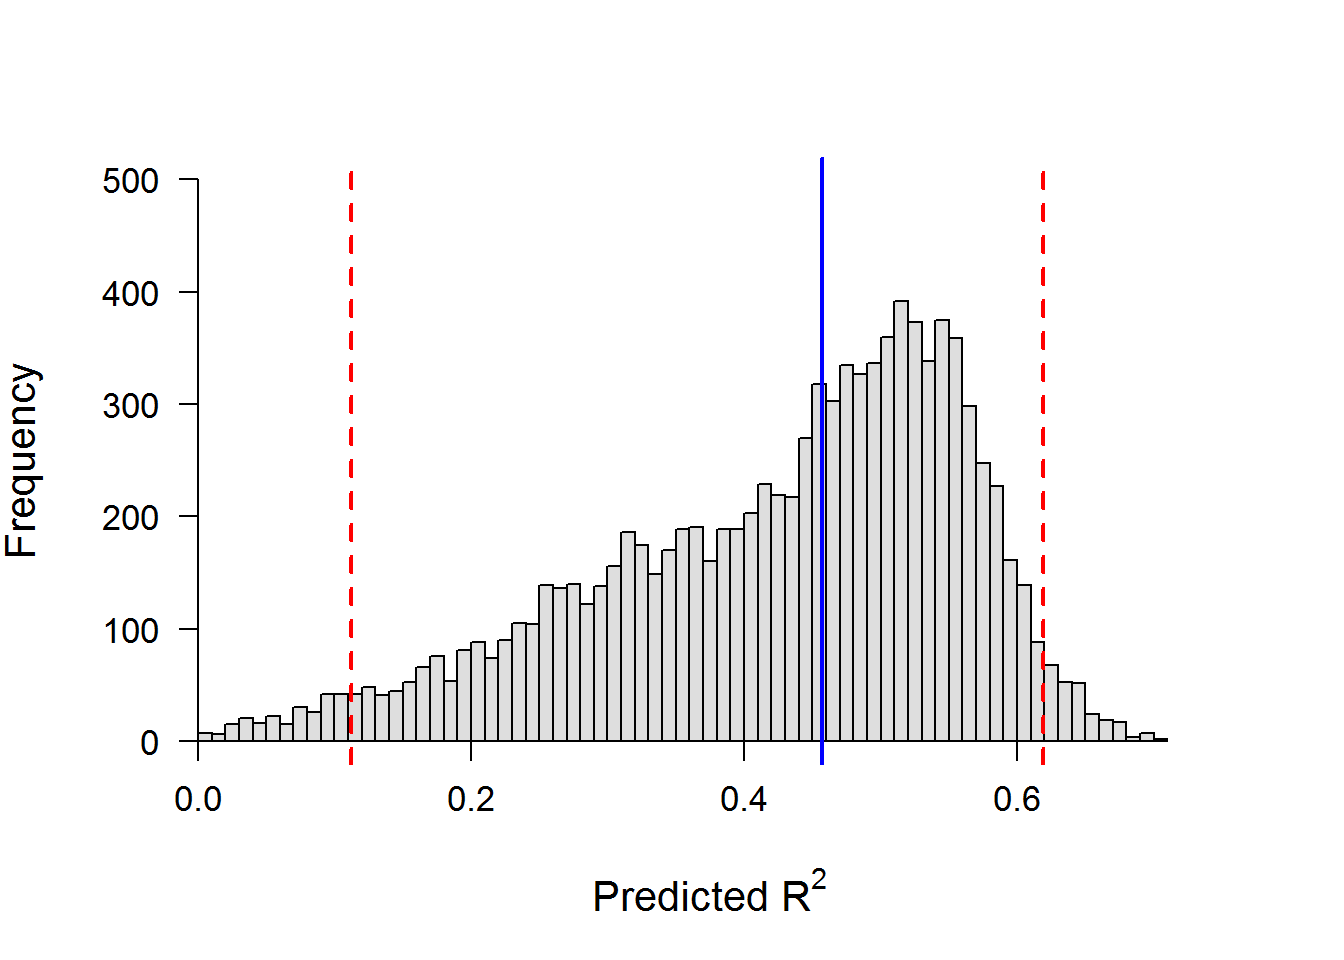
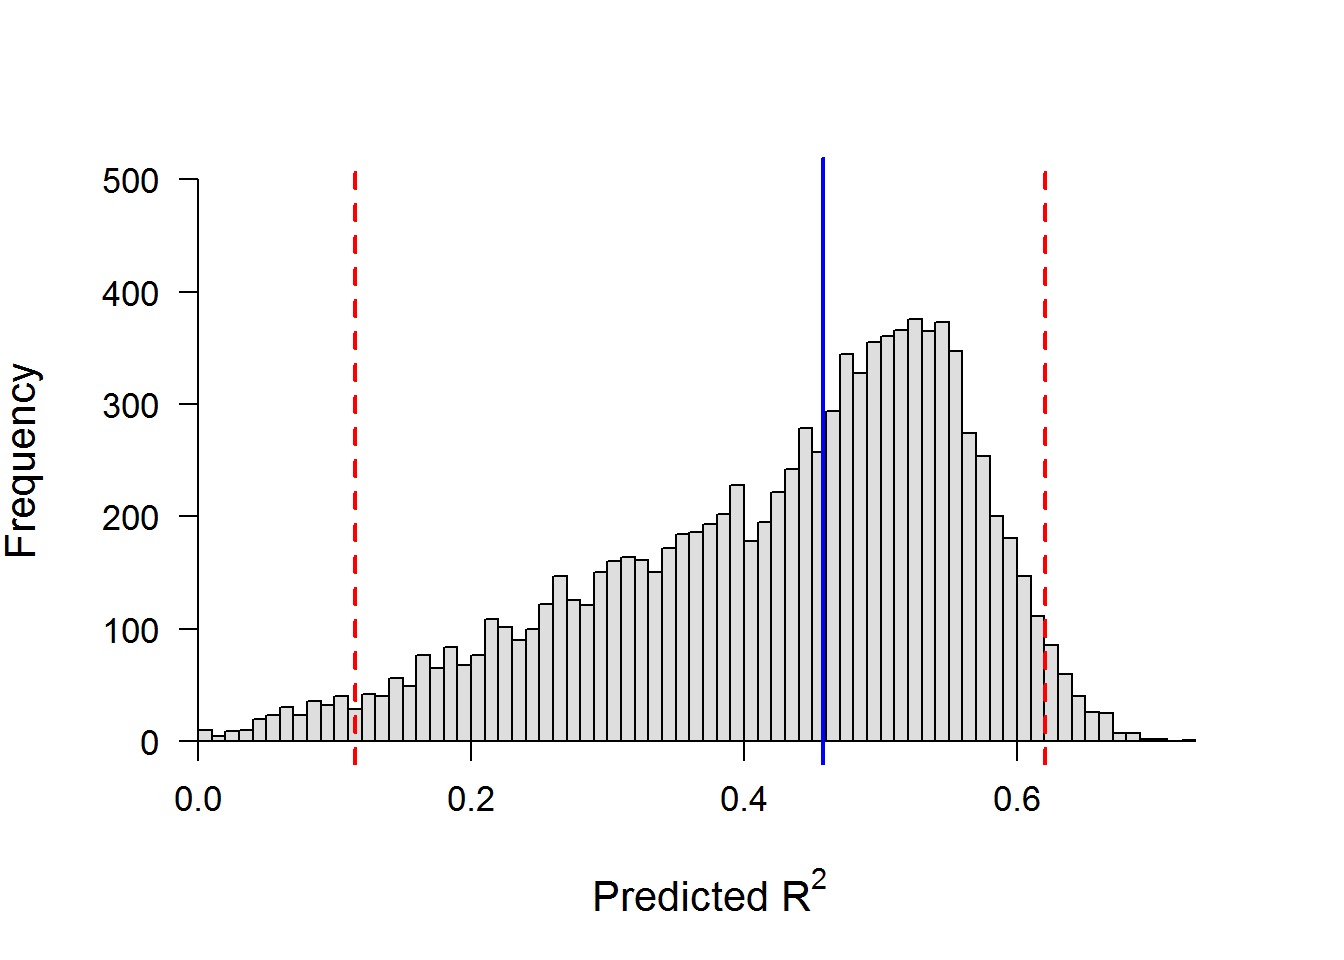
update course website home pages

diff --git a/stich/classes/BIOL678/index.html b/stich/classes/BIOL678/index.html
@@ -64,7 +64,7 @@ h6 {
 }
 </style>
 
-<link rel="stylesheet" href="styles.css" type="text/css" />
+<link rel="stylesheet" href="..\..\styles.css" type="text/css" />
 
 </head>
 
@@ -187,10 +187,22 @@ $(document).ready(function () {
   <a href="../../cv.html">Curriculum vitae</a>
 </li>
 <li>
-  <a href="../../courseWebsites.html">Course websites</a>
-</li>
-<li>
   <a href="../../contact.html">Contact</a>
+</li>
+<li class="dropdown">
+  <a href="#" class="dropdown-toggle" data-toggle="dropdown" role="button" aria-expanded="false">
+    Course websites
+     
+    <span class="caret"></span>
+  </a>
+  <ul class="dropdown-menu" role="menu">
+    <li>
+      <a href="index.html">BIOL 678</a>
+    </li>
+    <li>
+      <a href="../BIOL217/index.html">BIOL 217</a>
+    </li>
+  </ul>
 </li>
       </ul>
       <ul class="nav navbar-nav navbar-right">
@@ -208,34 +220,10 @@ $(document).ready(function () {
 </div>
 
 
-<style>
-pre code, pre, code {
-  white-space: pre !important;
-  overflow-x: scroll !important;
-  word-break: keep-all !important;
-  word-wrap: initial !important;
-}
-
-.column {
-    float: left;
-    padding: 15px;
-}
-
-.clearfix::after {
-    content: "";
-    clear: both;
-    display: table;
-}
-
-.content {
-    width: 75%;
-}
-
-</style>
 <p><br></p>
 <div id="advanced-quantitative-biology-biol-678" class="section level1">
 <h1>Advanced Quantitative Biology (BIOL 678)</h1>
-<p><img src="/home/god/codeDevelopment/danStich.github.io/stich/images/matrixSmolt.jpg" alt=""></p>
+<p><img src="../../images/matrixSmolt.jpg" alt=""></p>
 <p>This site is intended to serve as a permanent link to course content so students can access online learning modules, data sets and code used for the class. This site is not intended for submission of class assignments, accessing reading materials, tracking grades, or viewing the syllabus. For all of those materials, please refer to the course blackboard site, accessible through: <a href="https://blackboard.oneonta.edu"> https://blackboard.oneonta.edu </a>.</p>
 <p>To access the content from a given topic, please click on the corresponding links below. Please review the <a href="rubric.html"> rubric </a> for submitting programming assignments through Blackboard each week prior to submission.</p>
 <div id="introduction-to-programming-in-r" class="section level3">

diff --git a/stich/classes/BIOL217/index.html b/stich/classes/BIOL217/index.html
@@ -186,6 +186,9 @@ $(document).ready(function () {
 <li>
   <a href="../../cv.html">Curriculum vitae</a>
 </li>
+<li>
+  <a href="../../contact.html">Contact</a>
+</li>
 <li class="dropdown">
   <a href="#" class="dropdown-toggle" data-toggle="dropdown" role="button" aria-expanded="false">
     Course websites
@@ -200,9 +203,6 @@ $(document).ready(function () {
       <a href="index.html">BIOL 217</a>
     </li>
   </ul>
-</li>
-<li>
-  <a href="../../contact.html">Contact</a>
 </li>
       </ul>
       <ul class="nav navbar-nav navbar-right">
@@ -220,33 +220,9 @@ $(document).ready(function () {
 </div>
 
 
-<style>
-pre code, pre, code {
-  white-space: pre !important;
-  overflow-x: scroll !important;
-  word-break: keep-all !important;
-  word-wrap: initial !important;
-}
-
-.column {
-    float: left;
-    padding: 15px;
-}
-
-.clearfix::after {
-    content: "";
-    clear: both;
-    display: table;
-}
-
-.content {
-    width: 75%;
-}
-
-</style>
-<p><br></p>
 <div id="quantitative-biology-biol-217-course-website" class="section level2">
 <h2>Quantitative Biology (BIOL 217) Course Website</h2>
+<p><br></p>
 <p>This site is intended to serve as a permanent link to course content so students can access online learning modules, data sets and code used for the class. This site is not intended for submission of class assignments, accessing reading materials, tracking grades, or viewing the syllabus. For all of those materials, please refer to the course blackboard site, accessible through: <a href="https://blackboard.oneonta.edu"> https://blackboard.oneonta.edu </a>.</p>
 <p>To access the content from a given topic, please click on the link corresponding links below. Please review the <a href="rubric.html">rubric</a> for submitting programming assignments through Blackboard each week prior to submission.</p>
 <div id="introduction-to-programming-in-r" class="section level3">

diff --git a/stich/classes/BIOL678/06_modelSelection.html b/stich/classes/BIOL678/06_modelSelection.html
@@ -761,10 +761,10 @@ ed.pred      <span class="fl">1.000000e+00</span>  <span class="fl">0.1679651</s
 }</code></pre></div>
 <p>We can now calculate the median predicted R-squared and the 95% CI on this test statistic</p>
 <div class="sourceCode"><pre class="sourceCode r"><code class="sourceCode r">      <span class="kw">median</span>(p.Rsquare)
-[<span class="dv">1</span>] <span class="fl">0.457352</span>
+[<span class="dv">1</span>] <span class="fl">0.4575261</span>
       <span class="kw">quantile</span>(p.Rsquare, <span class="dt">probs =</span> <span class="kw">c</span>(<span class="fl">0.025</span>, <span class="fl">0.975</span>))
      <span class="fl">2.5</span><span class="op">%     97.5%</span><span class="st"> </span>
-<span class="fl">0.1120616</span> <span class="fl">0.6193052</span> </code></pre></div>
+<span class="fl">0.1151764</span> <span class="fl">0.6206894</span> </code></pre></div>
 <p>We can look at the distribution of our r-squared values for regressions that measure the fit between our predictions and our observations</p>
 <div class="sourceCode"><pre class="sourceCode r"><code class="sourceCode r"><span class="co"># Plot the histogram</span>
   <span class="kw">hist</span>(p.Rsquare, <span class="dt">breaks=</span><span class="dv">100</span>, <span class="dt">yaxt=</span><span class="st">&#39;n&#39;</span>, <span class="dt">xaxt=</span><span class="st">&#39;n&#39;</span>,
